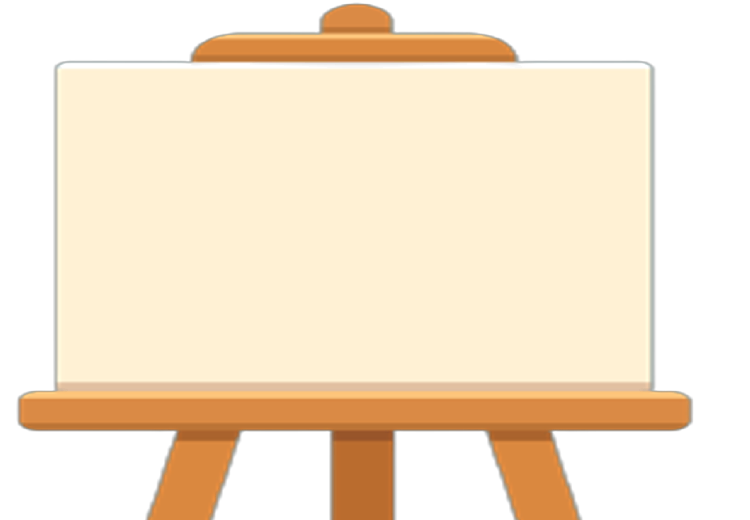
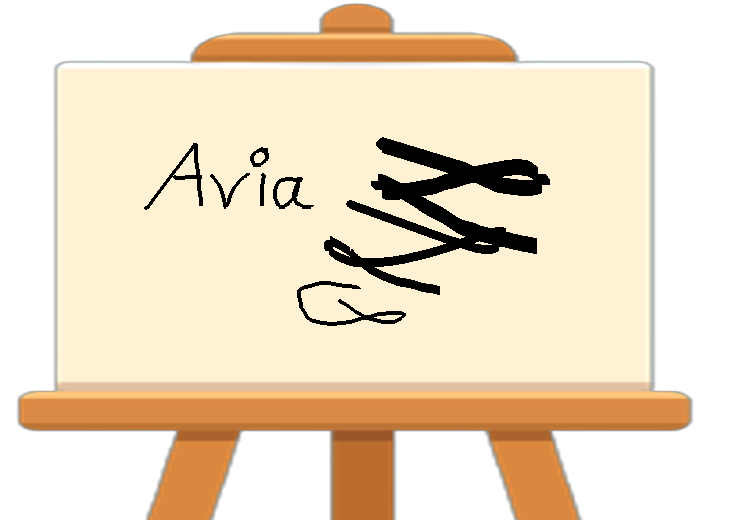
drawing board almost done

Changed region(s): [[0.3987, 0.2462, 0.736, 0.6462], [0.2147, 0.2769, 0.4293, 0.4], [0.184, 0.3692, 0.2147, 0.4]]

diff --git a/Translator.py b/Translator.py
@@ -1,30 +1,30 @@
-import translators as ts
-from Constants import *
-from helpers import *
-from buttons import *
-import drawing_player
-from drawing_player import drawing_player
-from main2 import home_screen
-
-class Tranlator(drawing_player):
-    #עברית אנגלית רוסית ערבית צרפתית ספרדית
-
-
-    #font = pygame.font.SysFont('David', PLAY_TEXT_SIZE)
-    #text = font.render(PLAY_TEXT, True, WHITE)
-
-    lang_button_list = [button_he, button_en, button_ru, button_ar, button_fr, button_sp]
-    lang_button_X_pos = [HE_BTN_X_POS, EN_BTN_X_POS, RU_BTN_X_POS, AR_BTN_X_POS, FR_BTN_X_POS, SP_BTN_X_POS]
-    lang_button_Y_pos = [HE_BTN_Y_POS, EN_BTN_Y_POS, RU_BTN_Y_POS, AR_BTN_Y_POS, FR_BTN_Y_POS, SP_BTN_Y_POS]
-
-    lang = 'en'
-    for index in range(6):
-        if ((lang_button_X_pos[index] <= home_screen.mouse_pos[0] <= lang_button_X_pos[index] + lang_button_width) and (
-                lang_button_Y_pos[index] <= home_screen.mouse_pos[1] <= lang_button_Y_pos[index] + lang_button_height)):
-            lang = lang_button_list[-2:]
-
-    TEXTS_TO_TRANSLATE = [PLAY_TEXT, drawing_player.rnd_Level1]
-    for index in TEXTS_TO_TRANSLATE:
-        i = ts.translate_text(index, to_language=lang)
-        if (lang == 'he'):
-            index = index[::-1]
+# import translators as ts
+# from Constants import *
+# from helpers import *
+# from buttons import *
+# import drawing_player
+# from drawing_player import drawing_player
+# from main2 import home_screen
+#
+# class Tranlator(drawing_player):
+#     #עברית אנגלית רוסית ערבית צרפתית ספרדית
+#
+#
+#     #font = pygame.font.SysFont('David', PLAY_TEXT_SIZE)
+#     #text = font.render(PLAY_TEXT, True, WHITE)
+#
+#     lang_button_list = [button_he, button_en, button_ru, button_ar, button_fr, button_sp]
+#     lang_button_X_pos = [HE_BTN_X_POS, EN_BTN_X_POS, RU_BTN_X_POS, AR_BTN_X_POS, FR_BTN_X_POS, SP_BTN_X_POS]
+#     lang_button_Y_pos = [HE_BTN_Y_POS, EN_BTN_Y_POS, RU_BTN_Y_POS, AR_BTN_Y_POS, FR_BTN_Y_POS, SP_BTN_Y_POS]
+#
+#     lang = 'en'
+#     for index in range(6):
+#         if ((lang_button_X_pos[index] <= home_screen.mouse_pos[0] <= lang_button_X_pos[index] + lang_button_width) and (
+#                 lang_button_Y_pos[index] <= home_screen.mouse_pos[1] <= lang_button_Y_pos[index] + lang_button_height)):
+#             lang = lang_button_list[-2:]
+#
+#     TEXTS_TO_TRANSLATE = [PLAY_TEXT, drawing_player.rnd_Level1]
+#     for index in TEXTS_TO_TRANSLATE:
+#         i = ts.translate_text(index, to_language=lang)
+#         if (lang == 'he'):
+#             index = index[::-1]

diff --git a/drawing_player.py b/drawing_player.py
@@ -33,8 +33,7 @@ class drawing_player:
                                             (WINDOW_WIDTH + 50, WINDOW_HEIGHT + 20))
 
         # set up the drawing tools
-        #TODO: in constants
-        brush_size = 5
+        brush_size = MEDIUM_BRUSH_SIZE
         brush_color = BLACK
 
         cursor_img = pygame.image.load('Images/cursor_image.png')
@@ -73,7 +72,12 @@ class drawing_player:
                         if not(mouse_in_button(board_button, event_pos)):
                             event_pos = last_pos_in_board(event_pos)
                         if not(mouse_in_button(colors, event_pos)) and not(mouse_in_button(tools_button, event_pos)):
-                            pygame.draw.circle(drawing_surface, brush_color, event_pos, brush_size - 2)
+                            if brush_size == BIG_BRUSH_SIZE:
+                                pygame.draw.circle(drawing_surface, brush_color, event_pos, brush_size - 10)
+                            if brush_size == MEDIUM_BRUSH_SIZE:
+                                pygame.draw.circle(drawing_surface, brush_color, event_pos, brush_size - 5)
+                            if brush_size == SMALL_BRUSH_SIZE:
+                                pygame.draw.circle(drawing_surface, brush_color, event_pos, brush_size - 2)
                         last_pos = event_pos
                     if mouse_in_button((red_button), mouse_pos):
                         brush_color = RED
@@ -97,6 +101,17 @@ class drawing_player:
                         brush_color = BLACK
                     if mouse_in_button((eraser_button), mouse_pos):
                         brush_color = BOARD_COLOR
+                    if mouse_in_button(big_circle, mouse_pos):
+                        brush_size = BIG_BRUSH_SIZE
+                    if mouse_in_button(medium_circle, mouse_pos):
+                        brush_size = MEDIUM_BRUSH_SIZE
+                    if mouse_in_button(small_circle, mouse_pos):
+                        brush_size = SMALL_BRUSH_SIZE
+                    if mouse_in_button(trash_can_button, mouse_pos):
+                        print("meow")
+                        drawing_surface = pygame.image.load("Images/board.png")
+                        drawing_surface = pygame.transform.scale(drawing_surface,
+                                                                 (WINDOW_WIDTH + 50, WINDOW_HEIGHT + 20))
                 elif event.type == pygame.MOUSEMOTION and mouse_in_button(board_button, mouse_pos):
                     if event.buttons[0]:  # left mouse button
                         event_pos = event.pos

diff --git a/buttons.py b/buttons.py
@@ -7,7 +7,7 @@ play_button = Button(PLAY_BTN_X_POS + 20,
                      PLAY_BTN_WIDTH,
                      PLAY_BTN_HEIGHT)
 
-colors = Button(COLORS_X_POS - 14, COLORS_Y_POS - 17, COLORS_WIDTH, COLORS_HEIGHT)
+colors = Button(COLORS_X_POS - 14, COLORS_Y_POS - 19, COLORS_WIDTH + 33, COLORS_HEIGHT)
 
 red_button = Button(COLOR_CIRCLE_X_POS, COLOR_CIRCLE_Y_POS, COLOR_CIRCLE_WIDTH, COLOR_CIRCLE_HEIGHT)
 
@@ -29,7 +29,7 @@ brown_button = Button(COLOR_CIRCLE_X_POS + COLOR_CIRCLE_WIDTH * 3, COLOR_CIRCLE_
 
 black_button = Button(COLOR_CIRCLE_X_POS + COLOR_CIRCLE_WIDTH * 4, COLOR_CIRCLE_Y_POS + COLOR_CIRCLE_HEIGHT, COLOR_CIRCLE_WIDTH, COLOR_CIRCLE_HEIGHT)
 
-tools_button = Button(TOOLS_X_POS + 15, TOOLS_Y_POS - 5, TOOLS_WIDTH, TOOLS_HEIGHT)
+tools_button = Button(TOOLS_X_POS + 10, TOOLS_Y_POS - 10, TOOLS_WIDTH, TOOLS_HEIGHT)
 
 eraser_button = Button(ERASER_TOOL_X_POS, ERASER_TOOL_Y_POS, ERASER_TOOL_WIDTH, ERASER_TOOL_HEIGHT)
 
@@ -43,3 +43,9 @@ button_fr = Button(FR_BTN_X_POS, FR_BTN_Y_POS, lang_button_width, lang_button_he
 button_sp = Button(SP_BTN_X_POS, SP_BTN_Y_POS, lang_button_width, lang_button_height)
 
 board_button = Button(BOARD_X_POS, BOARD_Y_POS, BOARD_WIDTH, BOARD_HEIGHT + 20)
+
+big_circle = Button(BIG_CIRCLE_X_POS, BIG_CIRCLE_Y_POS, BIG_CIRCLE_WIDTH, BIG_CIRCLE_HEIGHT)
+
+medium_circle = Button(MEDIUM_CIRCLE_X_POS, MEDIUM_CIRCLE_Y_POS, MEDIUM_CIRCLE_WIDTH, MEDIUM_CIRCLE_HEIGHT)
+
+small_circle = Button(SMALL_CIRCLE_X_POS, SMALL_CIRCLE_Y_POS, SMALL_CIRCLE_WIDTH, SMALL_CIRCLE_HEIGHT)

diff --git a/Constants.py b/Constants.py
@@ -84,10 +84,29 @@ COLORS_Y_POS = 320
 COLORS_WIDTH = 200
 COLORS_HEIGHT = 100
 
-SIZES_X_POS = 230
+SIZES_X_POS = 228
 SIZES_Y_POS = 321
 SIZES_WIDTH = 60
 SIZES_HEIGHT = 100
+
+BIG_BRUSH_SIZE = 16
+MEDIUM_BRUSH_SIZE = 9
+SMALL_BRUSH_SIZE = 4
+
+BIG_CIRCLE_X_POS = 244
+BIG_CIRCLE_Y_POS = 304
+BIG_CIRCLE_WIDTH = 31
+BIG_CIRCLE_HEIGHT = 25
+
+MEDIUM_CIRCLE_X_POS = 247
+MEDIUM_CIRCLE_Y_POS = 338
+MEDIUM_CIRCLE_WIDTH = 22
+MEDIUM_CIRCLE_HEIGHT = 17
+
+SMALL_CIRCLE_X_POS = 251
+SMALL_CIRCLE_Y_POS = 363
+SMALL_CIRCLE_WIDTH = 15
+SMALL_CIRCLE_HEIGHT = 12
 
 COLOR_CIRCLE_X_POS = 65
 COLOR_CIRCLE_Y_POS = 300
@@ -99,10 +118,10 @@ TOOLS_Y_POS = 353
 TOOLS_WIDTH = 170
 TOOLS_HEIGHT = 60
 
-TRASH_TOOL_X_POS = 486
-TRASH_TOOL_Y_POS = 375
-TRASH_TOOL_WIDTH = 38
-TRASH_TOOL_HEIGHT = 50
+TRASH_TOOL_X_POS = 512
+TRASH_TOOL_Y_POS = 343
+TRASH_TOOL_WIDTH = 33
+TRASH_TOOL_HEIGHT = 33
 
 ERASER_TOOL_X_POS = 599
 ERASER_TOOL_Y_POS = 348
